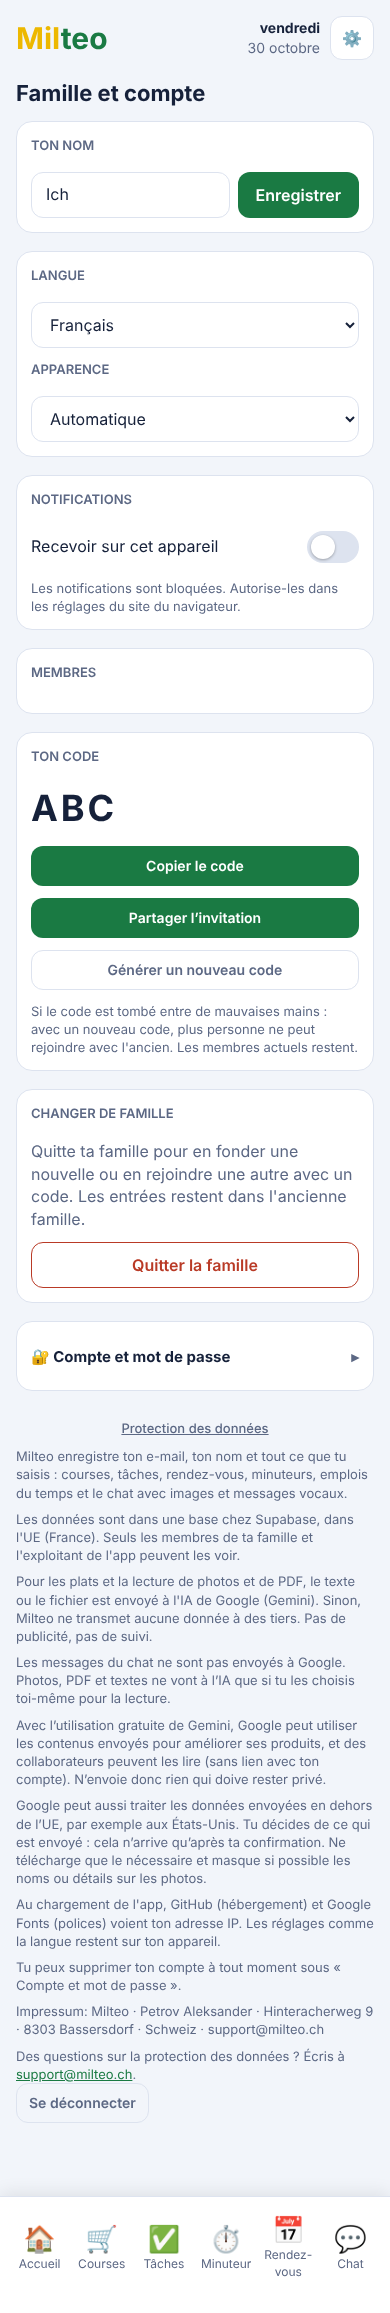
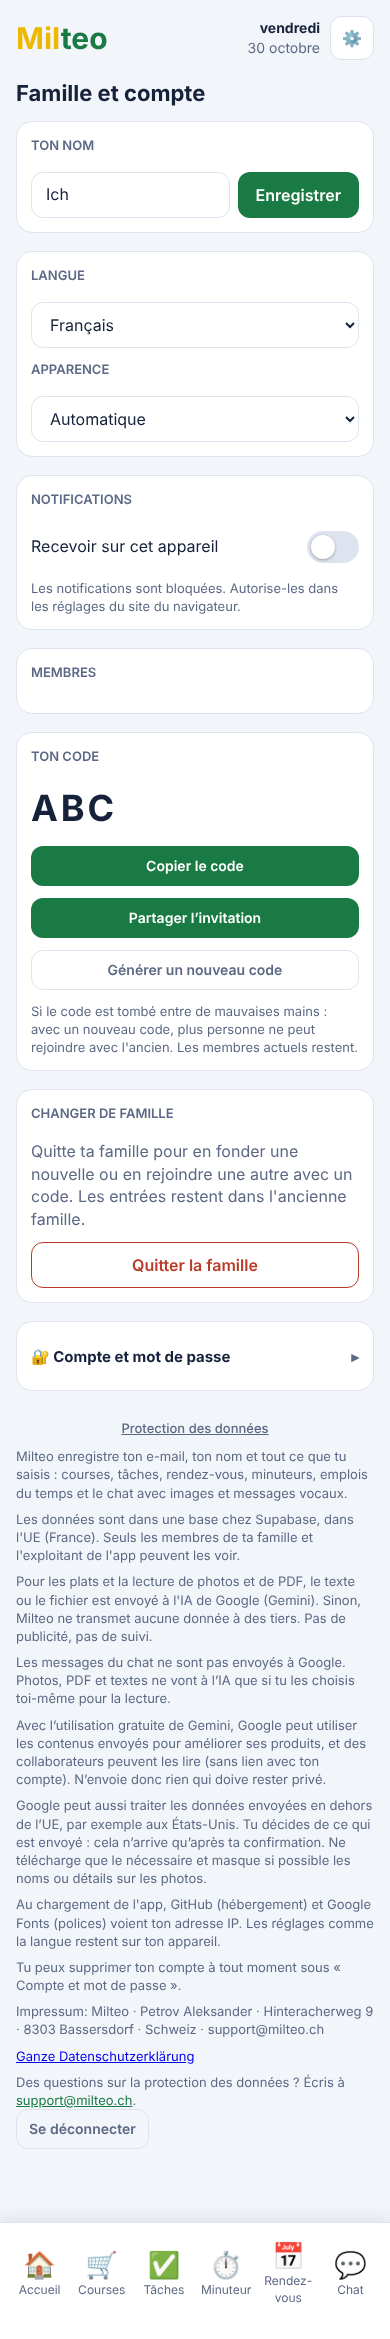
Eigene Datenschutz-Seite für den Play-Store-Eintrag
Claude-Session: https://claude.ai/code/session_017jd6qMoayf2hqt6XYe68pU

diff --git a/datenschutz.html b/datenschutz.html
@@ -1,0 +1,40 @@
+<!doctype html>
+<html lang="de"><head><meta charset="utf-8"><meta name="viewport" content="width=device-width,initial-scale=1">
+<meta name="robots" content="noindex"><title>Datenschutzerklärung – Milteo</title>
+<style>body{font:16px/1.55 system-ui,-apple-system,Segoe UI,Roboto,sans-serif;max-width:720px;margin:0 auto;padding:24px 16px 60px;color:#16203a;background:#f2f5fa}h1{font-size:26px}h2{font-size:18px;margin-top:28px}a{color:#1f8a4c}.s{color:#5a6685;font-size:14px}</style></head><body>
+<h1>Datenschutzerklärung</h1>
+<p class="s">Milteo Familienplaner · Stand: 30. Oktober 2026</p>
+
+<h2>Verantwortlich</h2>
+<p>Petrov Aleksander, Hinteracherweg 9, 8303 Bassersdorf, Schweiz<br>E-Mail: <a href="mailto:support@milteo.ch">support@milteo.ch</a></p>
+
+<h2>Welche Daten wir bearbeiten</h2>
+<p>Bei der Registrierung speichern wir deine E-Mail-Adresse, deinen Namen und dein Passwort (als geschützter Prüfwert, nicht im Klartext). Dazu kommt alles, was du oder deine Familie in der App einträgst: Einkaufslisten, Aufgaben, Termine, Timer, Stundenpläne sowie Chat-Nachrichten mit Bildern und Sprachnachrichten. Für Mitteilungen auf dem Handy speichern wir die technische Adresse deines Geräts (Push-Abo) und deine Mitteilungs-Einstellungen. Auf deinem Gerät speichert Milteo Einstellungen wie die Sprache.</p>
+
+<h2>Zweck</h2>
+<p>Die Daten brauchen wir, um die Familien-App bereitzustellen: Anmeldung, gemeinsame Listen, Chat, Erinnerungen und Mitteilungen. Wir verwenden sie nicht für Werbung und nicht für Tracking.</p>
+
+<h2>Wer die Daten sieht</h2>
+<p>Die Mitglieder deiner Familie sehen die gemeinsamen Einträge. Der Betreiber der App hat technisch Zugriff auf die Datenbank, nutzt ihn aber nur für Betrieb, Support und Fehlerbehebung.</p>
+
+<h2>Dienstleister</h2>
+<ul>
+<li><b>Supabase</b> (Datenbank, Anmeldung, Dateien): Daten liegen bei Supabase in der EU (Frankreich).</li>
+<li><b>GitHub Pages</b> (Hosting der Webseite) und <b>Google Fonts</b> (Schriftarten): Beim Laden der App sehen diese Anbieter deine IP-Adresse.</li>
+<li><b>Google Gemini</b> (KI): Nur wenn du die KI-Funktionen nutzt, also Zutaten für ein Gericht, ein Rezept, eine Übersetzung oder das Lesen von Fotos, PDFs und Texten (Termine, Stundenplan), wird der jeweilige Text oder die Datei an Google gesendet. Das geschieht erst nach deiner Bestätigung. Chat-Nachrichten werden nicht an Google gesendet. Google kann die Daten auch ausserhalb der EU, zum Beispiel in den USA, verarbeiten. Bei der kostenlosen Nutzung von Gemini darf Google die gesendeten Inhalte zur Verbesserung seiner Produkte verwenden, und Mitarbeitende können sie lesen (ohne Bezug zu deinem Konto). Sende deshalb nichts, was privat bleiben soll, und decke Namen auf Fotos möglichst ab.</li>
+<li><b>Mitteilungen</b>: Push-Mitteilungen werden über den Dienst deines Browsers bzw. Geräteherstellers (zum Beispiel Google) zugestellt.</li>
+</ul>
+
+<h2>Kinder</h2>
+<p>Familien können Daten von Kindern eintragen, zum Beispiel einen Stundenplan. Die Eltern entscheiden, was eingetragen wird. Kinder sollten die App nur mit Einwilligung der Eltern nutzen.</p>
+
+<h2>Aufbewahrung und Löschung</h2>
+<p>Wir speichern die Daten, solange dein Konto besteht. Du kannst dein Konto jederzeit in der App unter «Konto &amp; Passwort» löschen. Dabei werden deine persönlichen Daten gelöscht.</p>
+
+<h2>Deine Rechte</h2>
+<p>Du hast das Recht auf Auskunft, Berichtigung, Löschung und Herausgabe deiner Daten. Schreib uns dazu an <a href="mailto:support@milteo.ch">support@milteo.ch</a>. Du kannst dich ausserdem bei der Datenschutzbehörde beschweren (in der Schweiz beim Eidg. Datenschutz- und Öffentlichkeitsbeauftragten, EDÖB).</p>
+
+<h2>Änderungen</h2>
+<p>Wir passen diese Erklärung an, wenn sich die App ändert. Die aktuelle Fassung steht immer auf dieser Seite.</p>
+<p><a href="./">Zurück zu Milteo</a></p>
+</body></html>

diff --git a/index.html b/index.html
@@ -698,6 +698,7 @@ input.switch:focus-visible { outline-offset: 3px; }
           <p class="hint">Beim Laden der App sehen GitHub (Hosting) und Google Fonts (Schriftarten) deine IP-Adresse. Einstellungen wie die Sprache bleiben auf deinem Gerät.</p>
           <p class="hint">Du kannst dein Konto jederzeit unter «Konto &amp; Passwort» löschen.</p>
           <p class="hint">Impressum: Milteo · Petrov Aleksander · Hinteracherweg 9 · 8303 Bassersdorf · Schweiz · support@milteo.ch</p>
+          <p class="hint"><a href="datenschutz.html" target="_blank" rel="noopener">Ganze Datenschutzerklärung</a></p>
           <p class="hint">Fragen zum Datenschutz? Schreib an <a href="mailto:support@milteo.ch" style="color:var(--mil)">support@milteo.ch</a>.</p>
         </div>
       </div>
